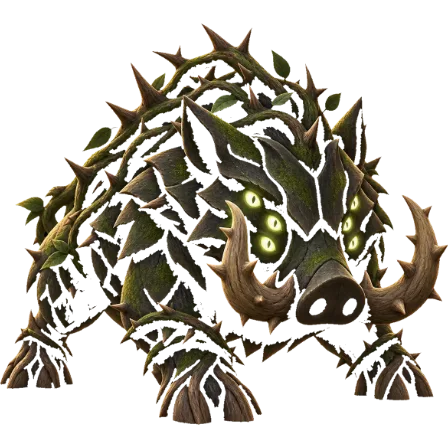
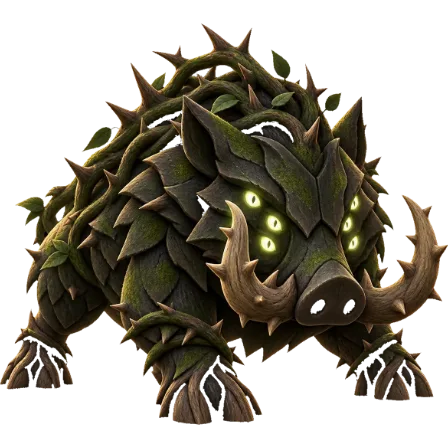
Stop the background cut walking through the creatures
You were right that it was still wrong, and it was wrong in the opposite
direction from what I had been fixing. One tolerance for all fifty is no
good for a creature painted the colour of the ground it was painted on: at
60 the fill went out of the background, through the black horse's own
shoulder and out the other side, and the erosion widened every channel it
had cut. On a cream card that is a set of gashes across the creature. It
never showed in a count of leftover black, because a creature with holes
in it looks cleaner, not dirtier.

The tolerance is measured now. The fill runs at a ladder of tolerances and
the area it takes is recorded at each; while it is only eating background
that area creeps, and the step where it breaks in is a jump. The last
tolerance before the jump is used — 45 for the two that leak, 75 for the
rest.

The pockets are decided on a pitch-black core rather than on how dark they
are. Trapped background came out at mean 12–15 and an ink creature's own
belly at 20, which is far too close to call; but background is the frame's
own nothing, so its middle is still exactly (0,0,0), while a creature's
dark interior is paint — dark, and never nothing. Trapped background runs
60–93% core, the crease between two of a boar's back plates runs 49%, and
the line goes between them at 55%.

Two things only looking would have found. The pocket sweep needs a tighter
tolerance than the fill, because the fill needs headroom to cross the
[…]

diff --git a/sw.js b/sw.js
@@ -7,7 +7,7 @@
    fighting the first one for the same names — and only carries its own
    bag pictures. */
 const PROFILE = new URL(self.location).searchParams.get('p') || 'rea';
-const CACHE = 'homework-v52-' + PROFILE;
+const CACHE = 'homework-v53-' + PROFILE;
 
 // Only what the app needs to run. The 512px icon is for the installer and the
 // splash screen, which nobody reaches offline, so it is fetched if it is ever

diff --git a/README.md b/README.md
@@ -725,13 +725,46 @@ book with a creature behind it and read, at 22px, as a second bag.
 All fifty at once, three across, in the order they were written — so a creature keeps the same
 number for ever and the gaps are the ones left to find.
 
-**Thirty-nine of the fifty are paintings.** They arrived as 1254px squares, twenty-four already
-cut out and fifteen painted onto solid black. Keying out “everything dark” would have eaten the
-dark creatures — a smoke horse, an ink blob, a lava dragon — so the black is taken by flood
-filling **inwards from the edge of the frame**: only black you can reach from outside is
-background, and the dark inside a creature is kept because it is fenced in by the creature’s own
-lighter edge. Then two passes of erosion, because JPEG blurs its edges and the ring just inside
-the cut is half black — which on a cream page reads as an outline drawn round the drawing.
+**Forty-nine of the fifty are paintings.** They arrived as 1254px squares, most already cut out
+and sixteen painted onto solid black. Keying out “everything dark” would have eaten the dark
+creatures — a smoke horse, an ink blob, a lava dragon — so the black is taken by flood filling
+**inwards from the edge of the frame**: only black you can reach from outside is background.
+Then two passes of erosion, because JPEG blurs its edges and the ring just inside the cut is
+half black — which on a cream page reads as an outline drawn round the drawing.
+
+Two things went wrong on the way, and both are worth writing down.
+
+**The fill walked into the creature.** One tolerance for all fifty is wrong for one painted the
+colour of the ground it was painted on: at 60 the fill went out of the background, through a
+black horse’s own shoulder and out the other side, and the erosion then widened every channel it
+had cut. On a cream card that is a set of gashes across the creature — and it does not show up
+in a count of leftover black, because the creature looks *cleaner*. The tolerance is measured
+now: the fill runs at a ladder of tolerances and the area it takes is recorded at each. While it
+is only eating background that area creeps; the step where it breaks in is a jump. The last
+tolerance before the jump is used — 45 for the two that leak, 75 for everybody else.
+
+**The pockets.** Black *shut in* by the creature — between a boar’s spines, under a stag’s belly,
+through the gaps in a tree’s roots — is never reachable from the frame, so it stayed as a hard
+black patch. A second sweep takes those, and the test is not how dark a pocket is on average:
+measured, background trapped in a boar came out at mean 12–15 and an ink creature’s own belly at
+20, far too close to call. The test is whether a pocket has a **pitch-black core**. Background is
+the frame’s own nothing, dirtied at the rim by compression, so its middle is still exactly
+(0,0,0); a creature’s dark interior is paint — dark, but never nothing. Trapped background runs
+60–93% core, the crease between two of a boar’s back plates runs 49%, and the line goes in the
+gap between them at 55%.
+
+Two details that only turned up by looking. The pocket sweep needs a **tighter tolerance than the
+fill** (30, not 45–75): the fill needs headroom to cross the compression halo round the outside,
+but a pocket has no rim to cross, and at the fill’s tolerance a boar’s leaf-shadows count as dark
+and the shadow comes out from between every plate on its back. And erosion goes on the frame’s
+cut **only** — eroding round a pocket as well widened every crease from a shadow one pixel across
+into a white gash five across.
+
+The errors either side of 55% are deliberately unequal. A sliver of background left on a creature
+is a blemish; a hole cut through one is a broken drawing. The check is automated — pure-black
+pixels painted magenta, so leftover background cannot be confused with a creature that is simply
+dark — and the ten hardest cut-outs have their surviving area pinned in a test, because a
+creature with holes in it has *less* black, not more, and would otherwise read as an improvement.
 
 Each one went to the creature whose page it fits rather than to the next free slot, and then
 **every name and every line was rewritten to belong to the drawing**. The grey owl with a halo
